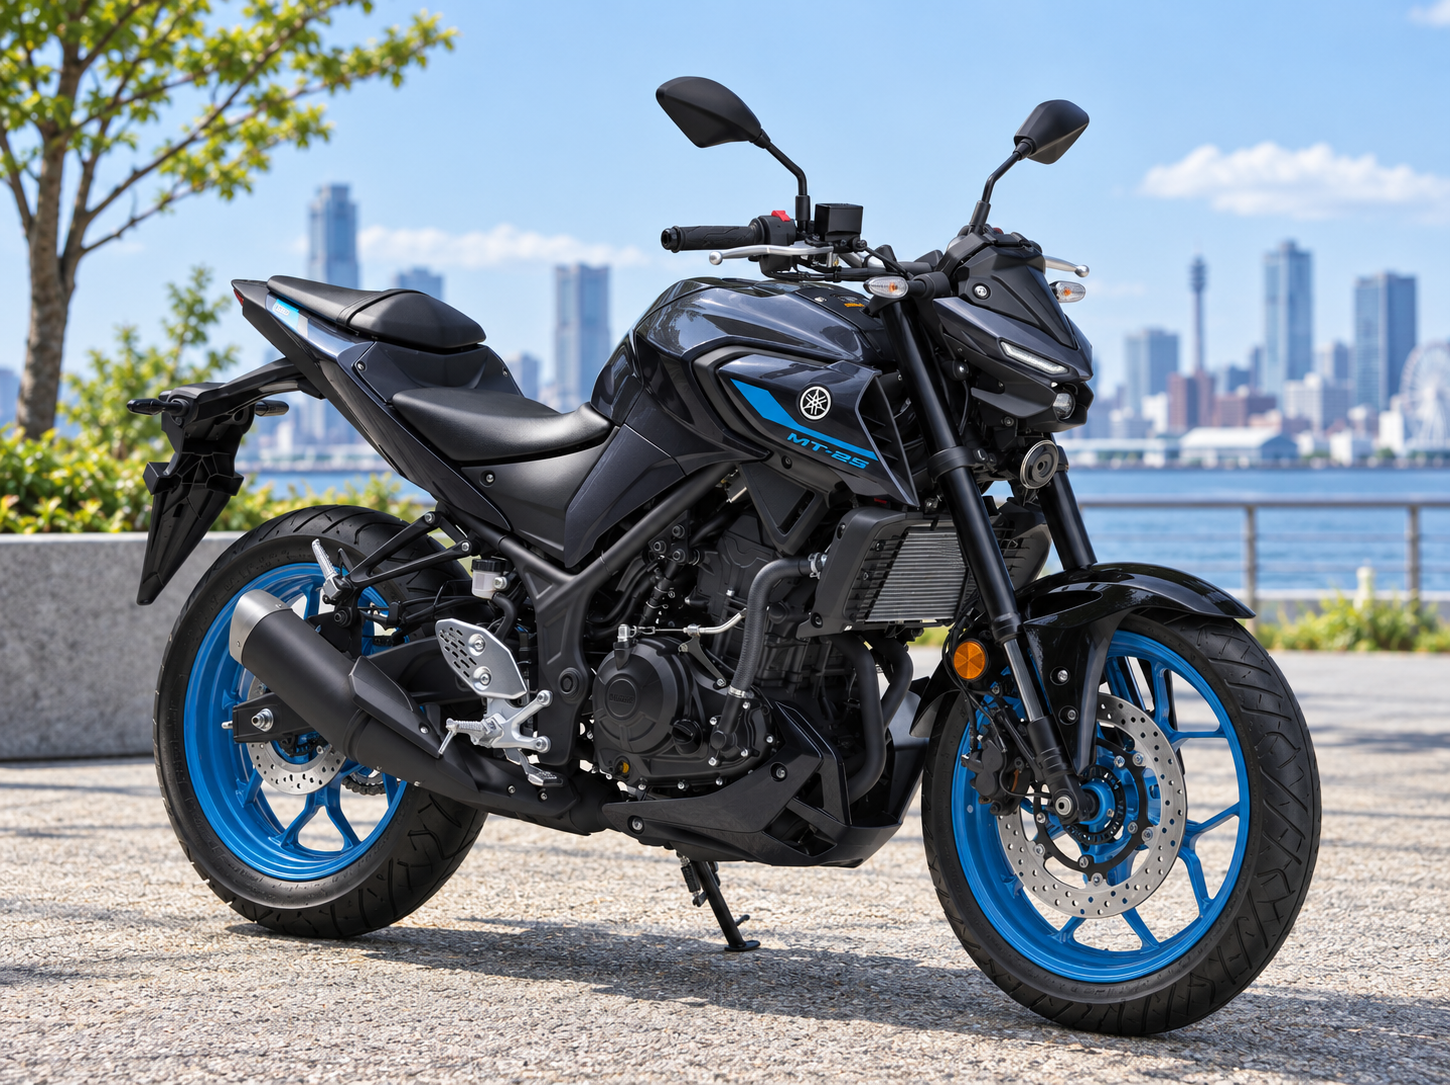
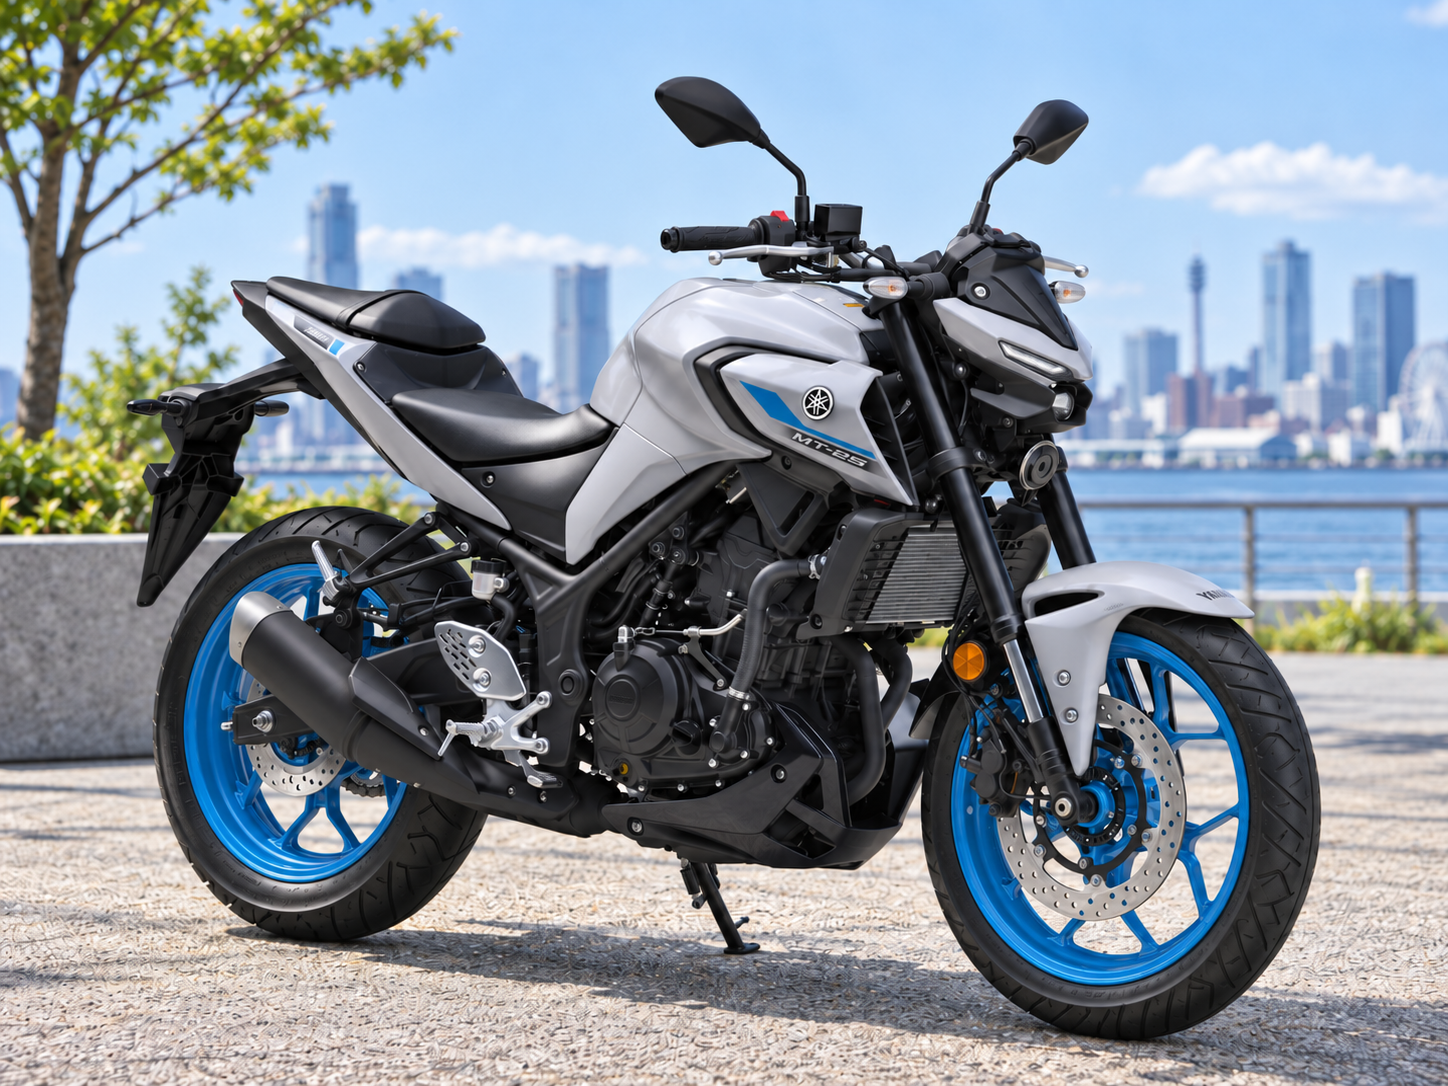
対象メーカー：ヤマハ・カワサキの代表車種写真を差し替え（MT-25 v2／Ninja 250）

diff --git a/index.html b/index.html
@@ -373,7 +373,7 @@
           <span class="maker-badge">04</span>
           <img class="maker-logo" src="img/kawasaki-logo.svg" alt="" loading="lazy" onerror="this.remove()">
           <span class="maker-tag">カワサキ<small>KAWASAKI</small></span>
-          <div class="maker-photo maker-photo-kawasaki"><img src="img/maker-kawasaki.png" width="1448" height="1086" alt="カワサキ Ninja ZX-25R" loading="lazy" onerror="this.remove()"><span class="maker-photo-ph">KAWASAKI</span></div>
+          <div class="maker-photo maker-photo-kawasaki"><img src="img/maker-kawasaki.png" width="1448" height="1086" alt="カワサキ Ninja 250" loading="lazy" onerror="this.remove()"><span class="maker-photo-ph">KAWASAKI</span></div>
           <h3 class="maker-card-h">カワサキのバイク買取り一覧</h3>
           <dl class="maker-list">
             <div><dt>126〜250cc</dt><dd>Ninja 250／Ninja ZX-25R／Z250</dd></div>
